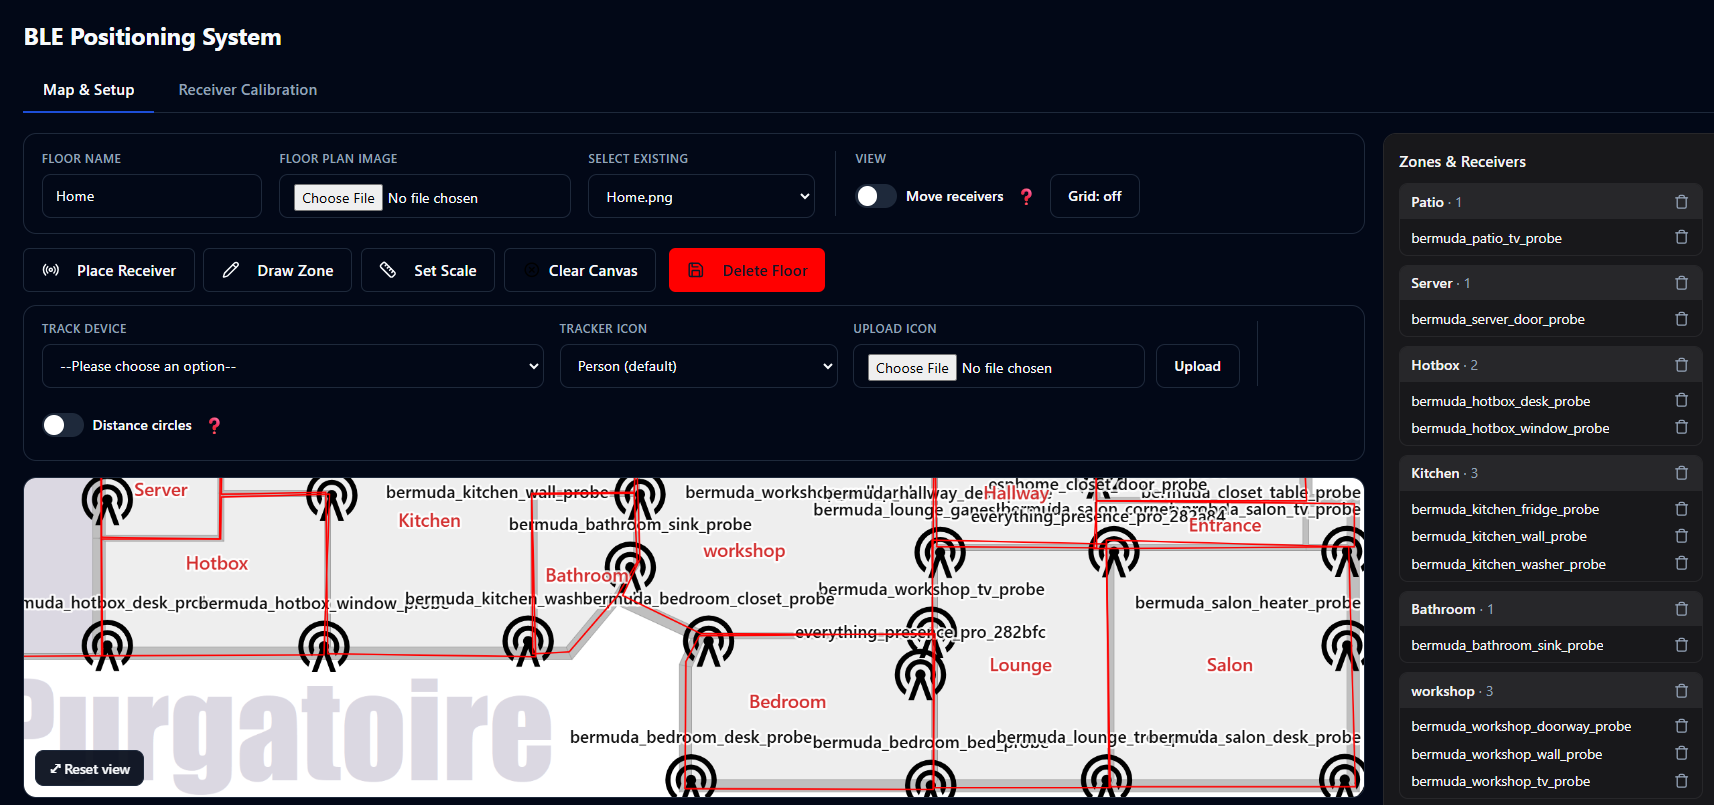
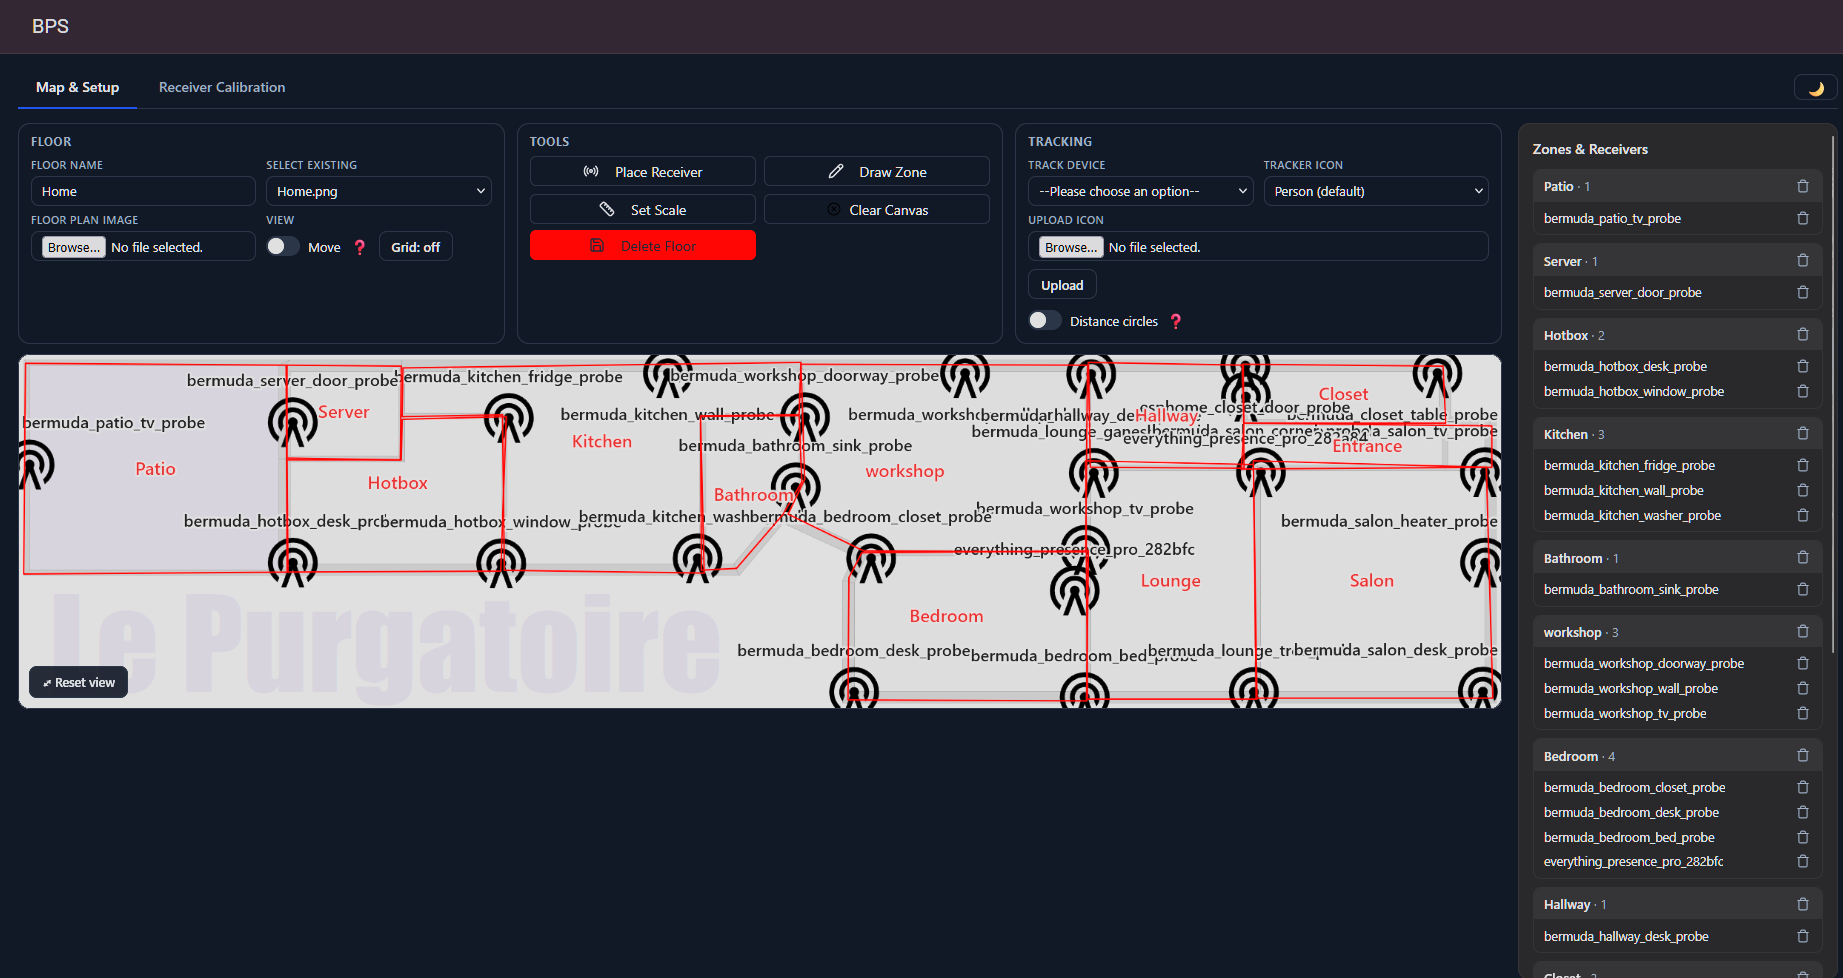
docs: document light/dark theme and ultrawide layout with screenshots
Add README sections for the theme toggle and the 32:9 three-column layout,
refresh the Map & Setup screenshot (now shows the theme toggle), and add the
light-theme and ultrawide example images.

diff --git a/README.md b/README.md
@@ -157,6 +157,24 @@ page). The map itself is interactive:
 
 ![Zoomed and panned in with one receiver focused — only its distance circle is drawn](img/screenshots/receiver-focus.png)
 
+### Light or dark theme
+
+The panel opens in dark mode, but a **theme toggle** (🌙 / ☀️) at the right of
+the tab bar flips the whole panel — map, sidebar, toolbar, and the calibration
+matrix — between dark and light. Your choice is remembered across reloads.
+
+![The Map & Setup tab in light theme, tracking a device in the Salon](img/screenshots/light-theme-example-panel-map-tab.png)
+
+### Ultrawide layouts
+
+The panel uses the full width of the window at every resolution. On a very wide
+screen (32:9 and similar) it goes a step further and reflows into three
+columns — the Floor, Tools, and Tracking cards stacked on the left, the map
+enlarged in the center, and the Zones & Receivers list on the right — so nothing
+is cramped and the map gets the space it deserves.
+
+![The panel on a 32:9 ultrawide display: setup stacked on the left, an enlarged map in the center, and the zones sidebar on the right](img/screenshots/ultrawide-demo.png)
+
 ## Polygon zones
 
 Zones are no longer limited to rectangles. When drawing a zone: